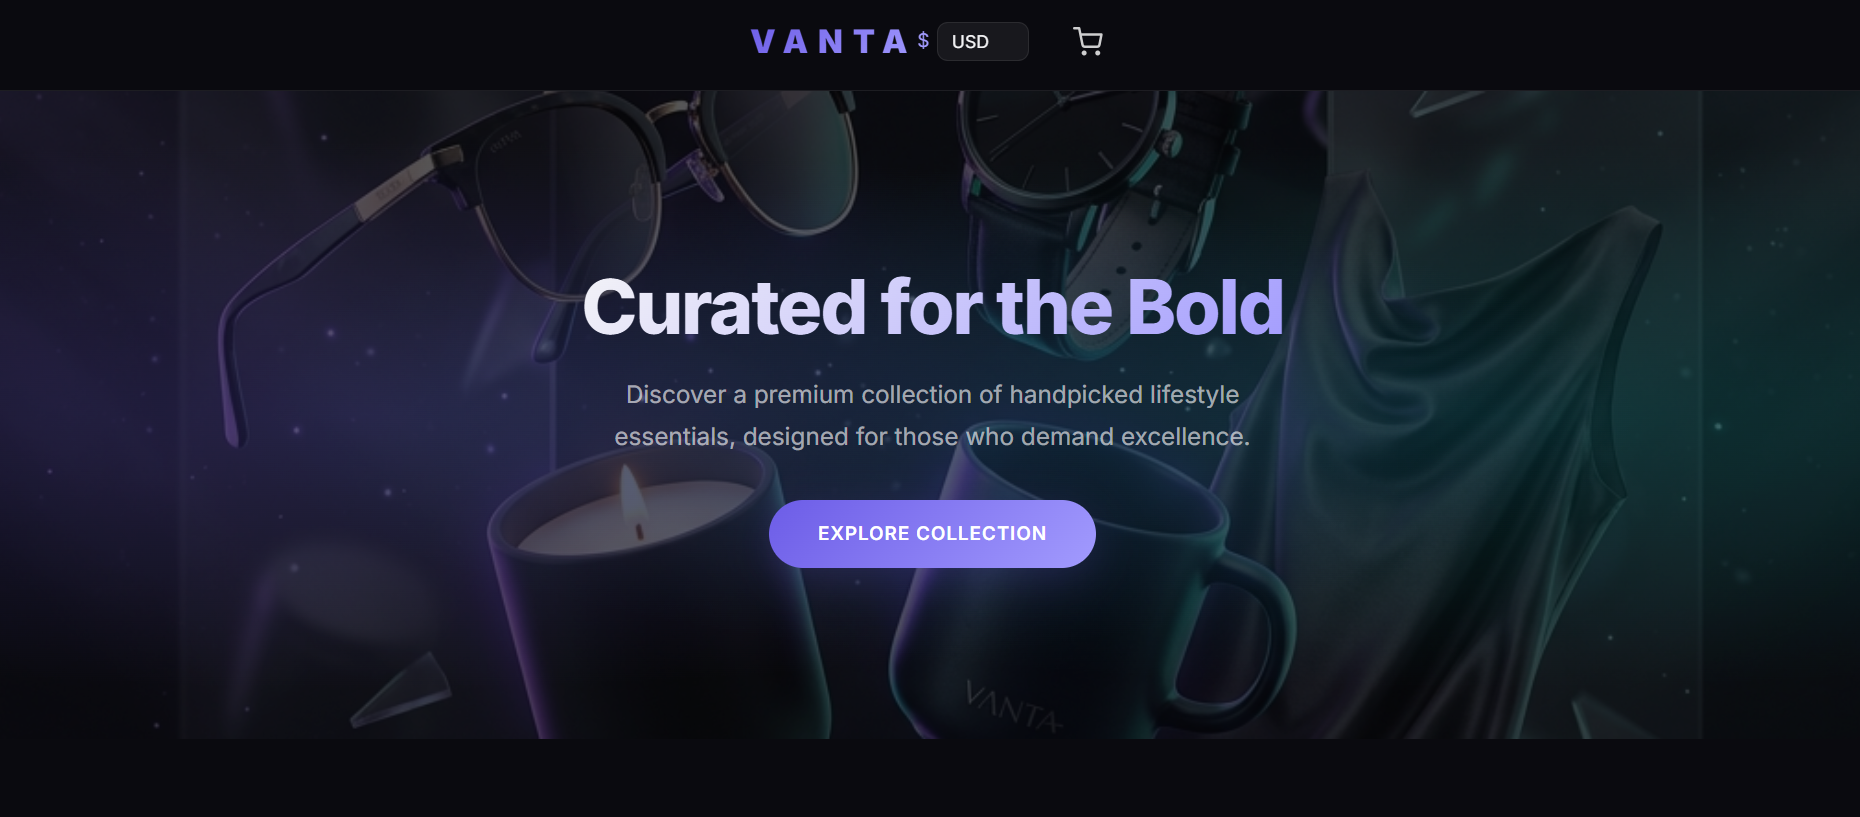
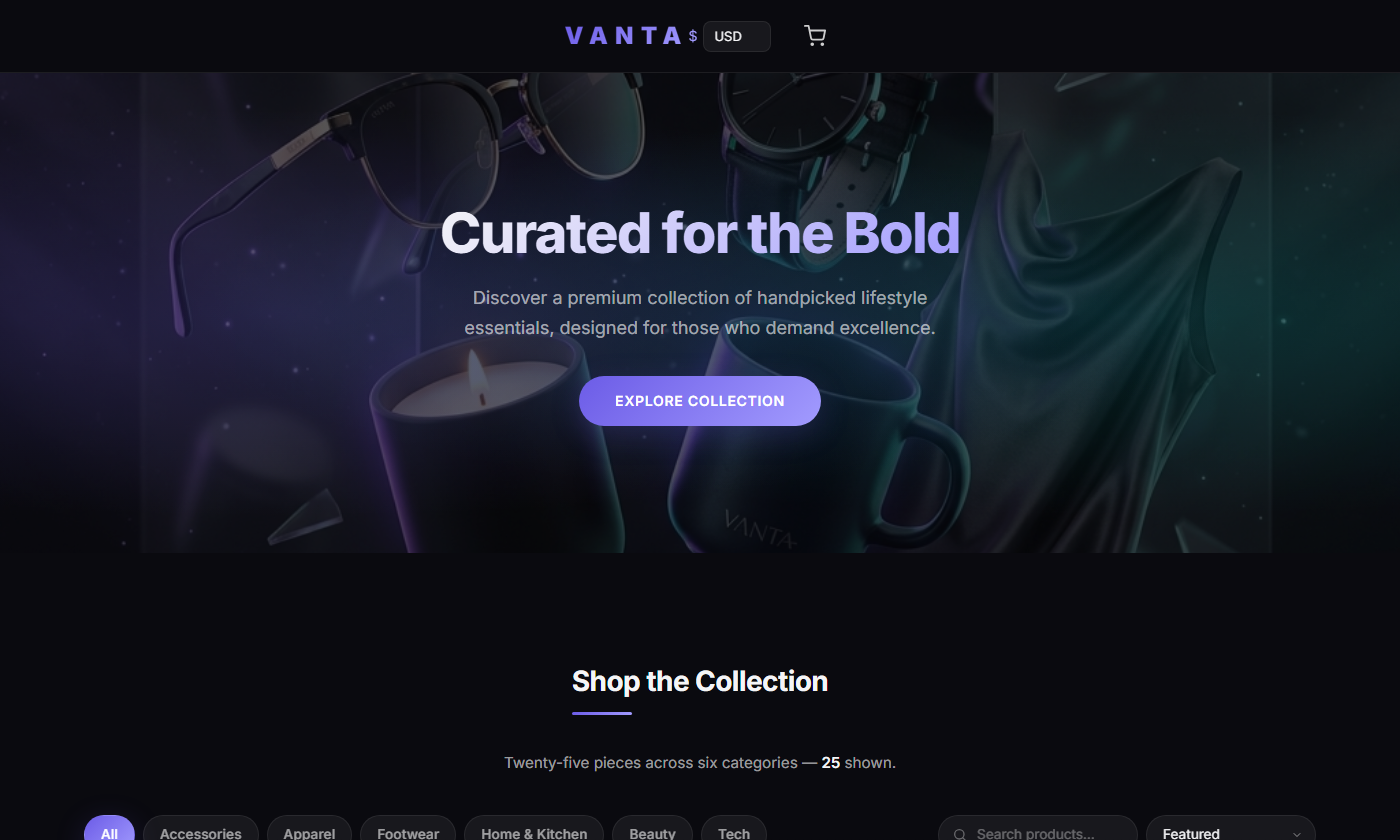
feat(frontend): live search, wishlist, and New badges + refreshed screenshots
- Live product search (name match) that composes with the category filter.
- localStorage-backed wishlist: heart toggle per card, persists across visits,
  with a pop animation and accessible aria-pressed state.
- 'New' badges auto-applied to the 16 newly added products (VNT* ids) — the
  original 9 stay unbadged.
- Refresh README storefront screenshots to the new 25-product catalog and
  update the storefront feature description.

diff --git a/src/frontend/static/js/catalog.js b/src/frontend/static/js/catalog.js
@@ -1,6 +1,7 @@
 /*
- * VANTA — catalog interactions: category filtering, sorting, and pretty labels.
- * Progressive enhancement: with JS off, all products still render (no filtering).
+ * VANTA — catalog interactions: category filter, live search, sort,
+ * "New" badges, and a localStorage-backed wishlist.
+ * Progressive enhancement: with JS off, all products still render.
  */
 (function () {
   "use strict";
@@ -13,28 +14,73 @@
     "beauty": "Beauty",
     "tech": "Tech"
   };
+  var WISH_KEY = "vanta_wishlist";
 
-  // Fill the category chip on every card (and product page) with a pretty label.
+  // --- pretty category chips (home + product page) ---
   document.querySelectorAll(".vpc-cat[data-cat]").forEach(function (el) {
     var slug = el.getAttribute("data-cat");
     el.textContent = CAT_LABELS[slug] || slug;
   });
 
+  // --- wishlist helpers (shared) ---
+  function loadWish() {
+    try { return new Set(JSON.parse(localStorage.getItem(WISH_KEY) || "[]")); }
+    catch (e) { return new Set(); }
+  }
+  function saveWish(set) {
+    try { localStorage.setItem(WISH_KEY, JSON.stringify(Array.from(set))); } catch (e) {}
+  }
+  var wish = loadWish();
+
+  function bindWish(btn) {
+    var id = btn.getAttribute("data-id");
+    var saved = wish.has(id);
+    btn.classList.toggle("is-saved", saved);
+    btn.setAttribute("aria-pressed", saved ? "true" : "false");
+    btn.addEventListener("click", function (e) {
+      e.preventDefault(); e.stopPropagation();
+      if (wish.has(id)) { wish.delete(id); } else { wish.add(id); }
+      saveWish(wish);
+      var on = wish.has(id);
+      btn.classList.toggle("is-saved", on);
+      btn.setAttribute("aria-pressed", on ? "true" : "false");
+    });
+  }
+  document.querySelectorAll(".vpc-wish").forEach(bindWish);
+
   var grid = document.getElementById("product-grid");
   if (!grid) return; // not on the home page
 
   var cards = Array.prototype.slice.call(grid.querySelectorAll(".vanta-product-card"));
+
+  // --- "New" badge on freshly-added products (VNT* ids) ---
+  cards.forEach(function (card) {
+    if ((card.getAttribute("data-id") || "").indexOf("VNT") === 0) {
+      var wrap = card.querySelector(".vpc-media-wrap");
+      if (wrap && !wrap.querySelector(".vpc-badge-new")) {
+        var b = document.createElement("span");
+        b.className = "vpc-badge-new";
+        b.textContent = "New";
+        wrap.appendChild(b);
+      }
+    }
+  });
+
   var pills = Array.prototype.slice.call(document.querySelectorAll(".cat-pill"));
   var sortSel = document.getElementById("sort");
+  var searchEl = document.getElementById("search");
   var countEl = document.getElementById("result-count");
   var emptyEl = document.getElementById("grid-empty");
   var originalOrder = cards.slice();
   var activeFilter = "all";
+  var term = "";
 
   function applyFilter() {
     var shown = 0;
     cards.forEach(function (card) {
-      var match = activeFilter === "all" || card.getAttribute("data-category") === activeFilter;
+      var catOk = activeFilter === "all" || card.getAttribute("data-category") === activeFilter;
+      var nameOk = !term || (card.getAttribute("data-name") || "").toLowerCase().indexOf(term) !== -1;
+      var match = catOk && nameOk;
       card.hidden = !match;
       if (match) shown++;
     });
@@ -42,21 +88,17 @@
     if (emptyEl) emptyEl.hidden = shown !== 0;
   }
 
+  function price(card) { return parseFloat(card.getAttribute("data-price")) || 0; }
+  function name(card) { return card.getAttribute("data-name") || ""; }
+
   function applySort() {
     var mode = sortSel ? sortSel.value : "featured";
     var arr = originalOrder.slice();
-    if (mode === "price-asc") {
-      arr.sort(function (a, b) { return price(a) - price(b); });
-    } else if (mode === "price-desc") {
-      arr.sort(function (a, b) { return price(b) - price(a); });
-    } else if (mode === "name") {
-      arr.sort(function (a, b) { return name(a).localeCompare(name(b)); });
-    }
+    if (mode === "price-asc") arr.sort(function (a, b) { return price(a) - price(b); });
+    else if (mode === "price-desc") arr.sort(function (a, b) { return price(b) - price(a); });
+    else if (mode === "name") arr.sort(function (a, b) { return name(a).localeCompare(name(b)); });
     arr.forEach(function (card) { grid.appendChild(card); });
   }
-
-  function price(card) { return parseFloat(card.getAttribute("data-price")) || 0; }
-  function name(card) { return card.getAttribute("data-name") || ""; }
 
   pills.forEach(function (pill) {
     pill.addEventListener("click", function () {
@@ -68,8 +110,13 @@
     });
   });
 
-  if (sortSel) {
-    sortSel.addEventListener("change", function () { applySort(); applyFilter(); });
+  if (sortSel) sortSel.addEventListener("change", function () { applySort(); applyFilter(); });
+
+  if (searchEl) {
+    searchEl.addEventListener("input", function () {
+      term = searchEl.value.trim().toLowerCase();
+      applyFilter();
+    });
   }
 
   applyFilter();

diff --git a/src/frontend/templates/home.html b/src/frontend/templates/home.html
@@ -33,7 +33,7 @@
         <p class="section-sub">Twenty-five pieces across six categories — <span id="result-count">{{ len $.products }}</span> shown.</p>
       </div>
 
-      <!-- Category filter + sort bar -->
+      <!-- Category filter + search + sort bar -->
       <div class="cat-bar" role="tablist" aria-label="Product categories">
         <div class="cat-pills">
           <button class="cat-pill active" data-filter="all" role="tab" aria-selected="true">All</button>
@@ -44,14 +44,20 @@
           <button class="cat-pill" data-filter="beauty" role="tab">Beauty</button>
           <button class="cat-pill" data-filter="tech" role="tab">Tech</button>
         </div>
-        <div class="cat-sort">
-          <label for="sort" class="sr-only">Sort products</label>
-          <select id="sort" aria-label="Sort products">
-            <option value="featured">Featured</option>
-            <option value="price-asc">Price: Low to High</option>
-            <option value="price-desc">Price: High to Low</option>
-            <option value="name">Name: A–Z</option>
-          </select>
+        <div class="cat-tools">
+          <div class="cat-search">
+            <svg viewBox="0 0 24 24" width="16" height="16" fill="none" stroke="currentColor" stroke-width="2" stroke-linecap="round" stroke-linejoin="round" aria-hidden="true"><circle cx="11" cy="11" r="7"/><path d="M21 21l-4.3-4.3"/></svg>
+            <input type="search" id="search" placeholder="Search products…" aria-label="Search products" autocomplete="off">
+          </div>
+          <div class="cat-sort">
+            <label for="sort" class="sr-only">Sort products</label>
+            <select id="sort" aria-label="Sort products">
+              <option value="featured">Featured</option>
+              <option value="price-asc">Price: Low to High</option>
+              <option value="price-desc">Price: High to Low</option>
+              <option value="name">Name: A–Z</option>
+            </select>
+          </div>
         </div>
       </div>
 
@@ -61,11 +67,17 @@
         <article class="vanta-product-card"
                  data-category="{{ index .Item.Categories 0 }}"
                  data-price="{{ .Price.Units }}"
-                 data-name="{{ .Item.Name }}">
-          <a class="vpc-media" href="{{ $.baseUrl }}/product/{{ .Item.Id }}" aria-label="{{ .Item.Name }}">
-            <img loading="lazy" src="{{ $.baseUrl }}{{ .Item.Picture }}" alt="{{ .Item.Name }}">
-            <span class="vpc-view">View Product</span>
-          </a>
+                 data-name="{{ .Item.Name }}"
+                 data-id="{{ .Item.Id }}">
+          <div class="vpc-media-wrap">
+            <a class="vpc-media" href="{{ $.baseUrl }}/product/{{ .Item.Id }}" aria-label="{{ .Item.Name }}">
+              <img loading="lazy" src="{{ $.baseUrl }}{{ .Item.Picture }}" alt="{{ .Item.Name }}">
+              <span class="vpc-view">View Product</span>
+            </a>
+            <button class="vpc-wish" type="button" data-id="{{ .Item.Id }}" aria-label="Save {{ .Item.Name }} to wishlist" aria-pressed="false">
+              <svg viewBox="0 0 24 24" width="18" height="18" aria-hidden="true"><path d="M12 21s-7.55-4.6-10-9.17C.3 8.36 2.02 5 5.3 5c2.02 0 3.35 1.23 4.7 3.02C11.35 6.23 12.68 5 14.7 5 17.98 5 19.7 8.36 22 11.83 19.55 16.4 12 21 12 21z"/></svg>
+            </button>
+          </div>
           <div class="vpc-body">
             <span class="vpc-cat" data-cat="{{ index .Item.Categories 0 }}"></span>
             <a class="vpc-name" href="{{ $.baseUrl }}/product/{{ .Item.Id }}">{{ .Item.Name }}</a>
@@ -75,7 +87,7 @@
         {{ end }}
       </div>
 
-      <p class="grid-empty" id="grid-empty" hidden>No products in this category yet.</p>
+      <p class="grid-empty" id="grid-empty" hidden>No products match your search.</p>
 
       {{ if $.ad }}
         {{ template "text_ad" . }}

diff --git a/src/frontend/static/styles/styles.css b/src/frontend/static/styles/styles.css
@@ -816,3 +816,49 @@ footer .footer-built-by {
 .product-breadcrumb a:hover { color: var(--text-primary); }
 .product-breadcrumb .sep { opacity:.5; }
 .product-details .vpc-cat { display:inline-block; margin-bottom: 6px; }
+
+/* =============================================================================
+ * VANTA — Catalog features: search, "New" badge, wishlist heart (added)
+ * ============================================================================= */
+.cat-tools { display:flex; align-items:center; gap: var(--space-sm); }
+
+.cat-search { position:relative; display:flex; align-items:center; }
+.cat-search svg { position:absolute; left:14px; color: var(--text-muted); pointer-events:none; }
+.cat-search input {
+  font:inherit; font-size:.85rem; color: var(--text-primary);
+  background: var(--bg-input); border:1px solid var(--border-glass);
+  border-radius: var(--radius-full); padding:8px 16px 8px 38px; width: 200px;
+  transition: border-color var(--duration-fast) var(--ease-out), width var(--duration-normal) var(--ease-out);
+}
+.cat-search input::placeholder { color: var(--text-muted); }
+.cat-search input:focus { outline:none; border-color: var(--border-accent); width: 240px; }
+@media (max-width: 720px) { .cat-search input { width: 140px; } .cat-search input:focus { width: 160px; } }
+
+/* Media wrapper now hosts overlays (badge + wishlist) */
+.vpc-media-wrap { position:relative; }
+
+.vpc-badge-new {
+  position:absolute; top:12px; left:12px; z-index:2;
+  font-size:.66rem; font-weight:700; letter-spacing:.08em; text-transform:uppercase;
+  color:#fff; background: var(--accent-gradient);
+  padding:4px 10px; border-radius: var(--radius-full);
+  box-shadow: var(--shadow-accent);
+}
+
+.vpc-wish {
+  position:absolute; top:10px; right:10px; z-index:2;
+  display:flex; align-items:center; justify-content:center;
+  width:36px; height:36px; padding:0; cursor:pointer;
+  color: rgba(255,255,255,.85);
+  background: rgba(10,10,15,.55); backdrop-filter: blur(6px);
+  border:1px solid rgba(255,255,255,.14); border-radius: var(--radius-full);
+  transition: transform var(--duration-fast) var(--ease-bounce),
+              background var(--duration-fast) var(--ease-out),
+              color var(--duration-fast) var(--ease-out);
+}
+.vpc-wish svg { fill:none; stroke: currentColor; stroke-width:1.8; }
+.vpc-wish:hover { transform: scale(1.12); background: rgba(10,10,15,.75); color:#fff; }
+.vpc-wish.is-saved { color:#ff5c8a; }
+.vpc-wish.is-saved svg { fill:#ff5c8a; stroke:#ff5c8a; }
+.vpc-wish.is-saved { animation: wish-pop var(--duration-normal) var(--ease-bounce); }
+@keyframes wish-pop { 0%{transform:scale(1);} 45%{transform:scale(1.28);} 100%{transform:scale(1);} }

diff --git a/README.md b/README.md
@@ -32,9 +32,12 @@ pipeline that builds, tests, scans, and ships every service.
 - 🆕 **Reviews microservice** (`reviewsservice`, Go/gRPC) — `GetReviews` + `AddReview`, with a
   pluggable **`Store` interface**: a bounded, concurrency-safe **in-memory** store by default,
   or a durable, shared **PostgreSQL** store (pgx/v5) for multi-replica deployments.
-- 🎨 **VANTA storefront** — reviews on the product page (★ ratings, write-a-review form),
-  rendered with accessibility (`aria-label`, semantic `<article>`/`<time>`) and **schema.org
-  JSON-LD** (`AggregateRating`/`Review`) for rich search snippets.
+- 🎨 **VANTA storefront** — a curated **25-product catalog across 6 categories** with a live
+  **category filter, search, and sort**, a **localStorage wishlist**, "New" badges, and a
+  unified set of **premium SVG product tiles** (per-category gradient art, zero external image
+  deps). Reviews on the product page (★ ratings, write-a-review form), rendered with
+  accessibility (`aria-label`, semantic `<article>`/`<time>`) and **schema.org JSON-LD**
+  (`AggregateRating`/`Review`) for rich search snippets.
 - 🛡 **Production hardening** — graceful shutdown (`SIGTERM` → drain), gRPC message-size &
   keepalive limits, input validation/length caps, DB-connectivity-driven **gRPC health**, a
   `nonroot` distroless image, and a dedicated **NetworkPolicy**.
@@ -47,7 +50,7 @@ pipeline that builds, tests, scans, and ships every service.
 
 ## Screenshots
 
-| Landing — *Curated for the Bold* | Catalog — *Hot Products* |
+| Landing — *Curated for the Bold* | Catalog — *25 products · 6 categories · filter, search & sort* |
 | --- | --- |
 | ![VANTA landing hero](/docs/screenshots/hero-landing.png) | ![VANTA product catalog](/docs/screenshots/product-catalog.png) |
 
